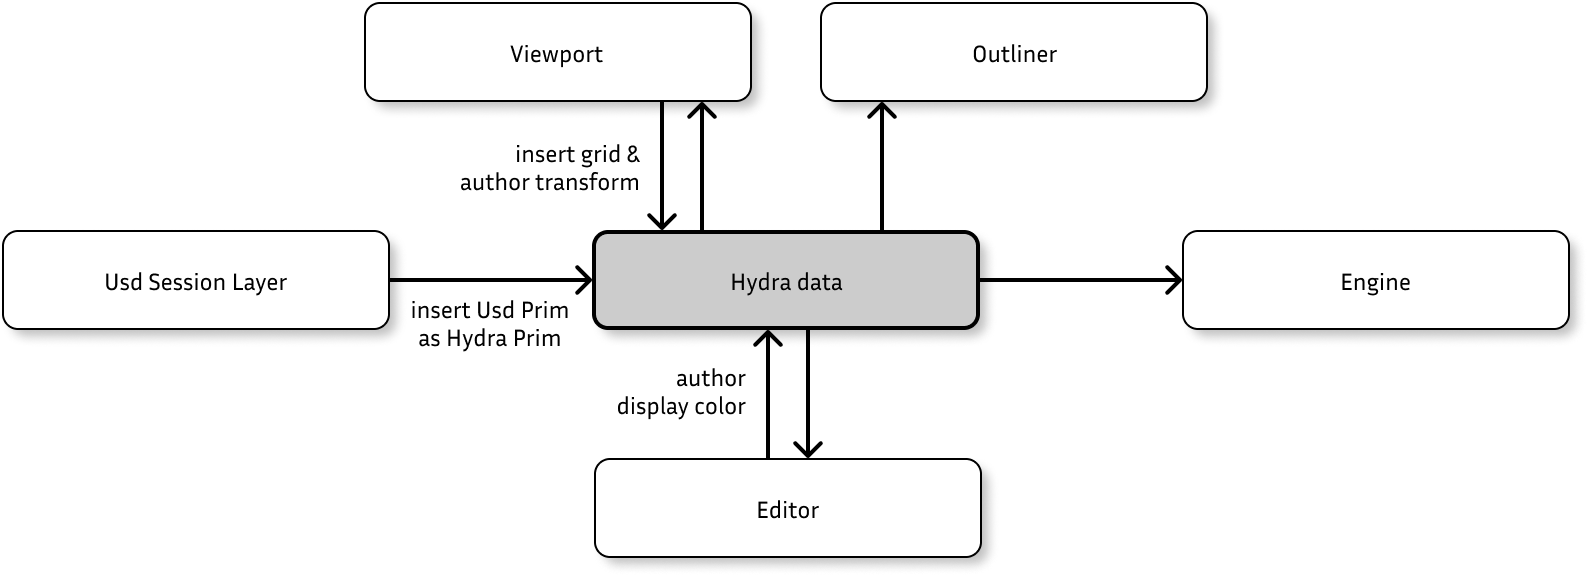
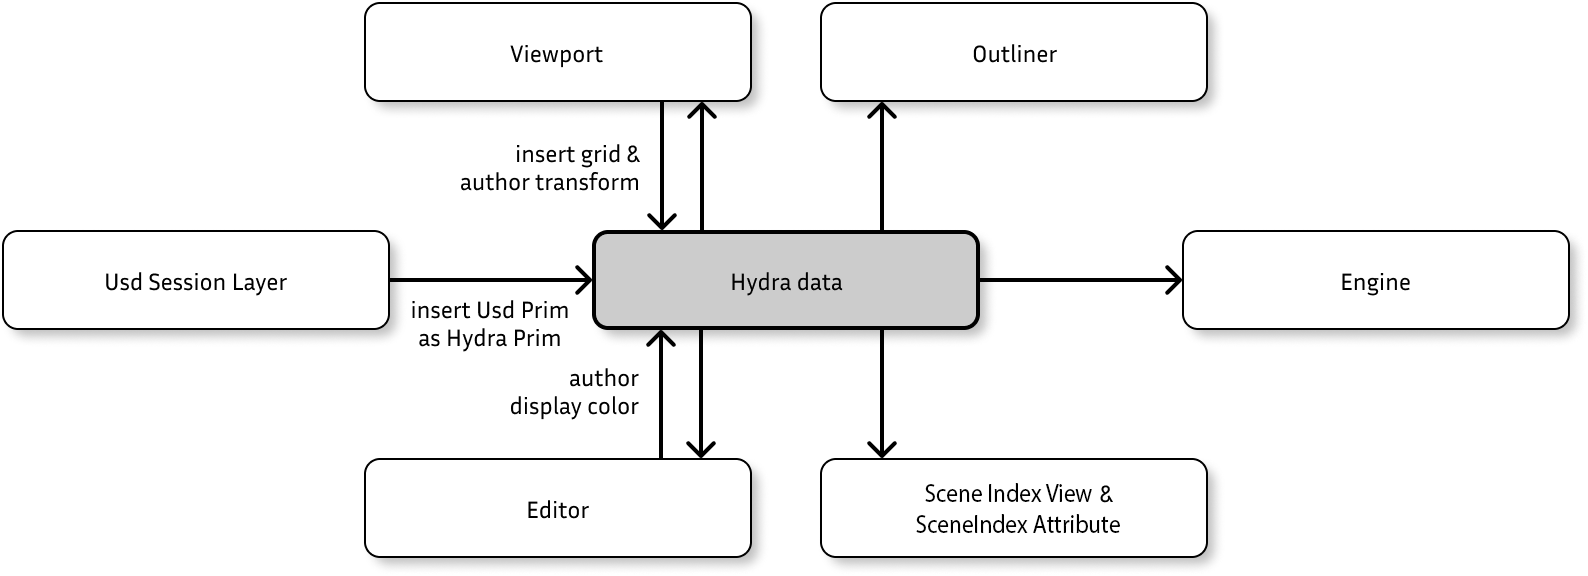
update docs

diff --git a/README.md b/README.md
@@ -31,12 +31,23 @@ The viewport view authors the transforms (translate, rotate, scale) of Hydra Pri
 
 ### Editor
 
-The Editor view allows the user to author the display color of the selected Hydra Prim. The view also displays all the Hydra attributes from the selection.
+The Editor view allows the user to author the display color of the selected Hydra Prim.
 
 ### Engine
 
 The Engine consumes Hydra data with all modifications from the views and generates an image from it.
 
+### Scene Index View
+
+The Scene Index view displays a nodal view of all available Scene Indices loaded into Hydra as well as they connections. This view also authors the **Active Scene Index** when clicking on a node. Hence all views will update its data according to the Active Scene Index.
+
+### Scene Index Attribute
+
+The Scene Index Attribute shows all the Hydra attributes from the selection. Attributes are colored based on their origin:
+
+- ${Inherited \space attribute}$
+- ${\color{orange}New \space attribute}$
+- ${\color{red}Modified \space value}$
 
 ## Scenes Indices
 
@@ -105,7 +116,9 @@ Here are the shortcuts to navigate using the mouse and the keyboard:
 
 Every renderer that implements a hydra render delegate can be used in this project to extends the renderer list.
 
-Here is an example of 4 different renderers: Storm, Embree, [Cycle](https://github.com/blender/cycles) and [Arnold](https://github.com/Autodesk/arnold-usd).
+Here is an example with two different renderers: Storm, Embree.
+
+For your curiosity, here are others: [OpenMoonRay](https://docs.openmoonray.org), [Cycle](https://github.com/blender/cycles) and [Arnold](https://github.com/Autodesk/arnold-usd).
 
 Once the custom render delegates are build, don't forget to set the `PXR_PLUGINPATH_NAME` environment variable before launching the application to make use of them.
 
@@ -115,6 +128,7 @@ Once the custom render delegates are build, don't forget to set the `PXR_PLUGINP
 
 Explore the menu bars of the application and viewports, you may find useful fonctionalities such as:
 * Create new USD objects in the scenes (Camera, Cube, ...)
+* Profile your Hydra data with Active Scene Index
 * Create new views in the main window
 * Switch the active camera to the viewport
 * Show/Hide the grid

diff --git a/BUILDING.md b/BUILDING.md
@@ -9,7 +9,7 @@ ImGUi Hydra has been developed on MacOS Sonora 14.5 (Macbook Air 2022 - M2).
 Required:
 * gcc compiler
 * [cmake v3.27](https://cmake.org/) or newer
-* [OpenUSD v24.08](https://github.com/PixarAnimationStudios/OpenUSD) or newer
+* [OpenUSD v25.08](https://github.com/PixarAnimationStudios/OpenUSD) or newer
 
 Embedded:
 * [imgui v1.90.9](https://github.com/ocornut/imgui)
@@ -40,7 +40,7 @@ The easy way to get a pre-built version of USD is to download the one from the [
 To build USD manually, go to the [OpenUSD release page](https://github.com/PixarAnimationStudios/OpenUSD/releases), download the last release available and build it (build info in the OpenUSD [README.md](https://github.com/PixarAnimationStudios/OpenUSD/blob/release/README.md)).
 
 Don't forget to add the --embree flag to the build command if you wish to have access to the Embree renderer from ImGui Hydra Editor.
-![embree enabled in ImGui Hydra Editor](resources/storm_embree.png)
+![embree enabled in ImGui Hydra Editor](resources/multi_renderers.png)
 
 ```bash
 python3 USD/build_scripts/build_usd.py --embree /path/to/install
